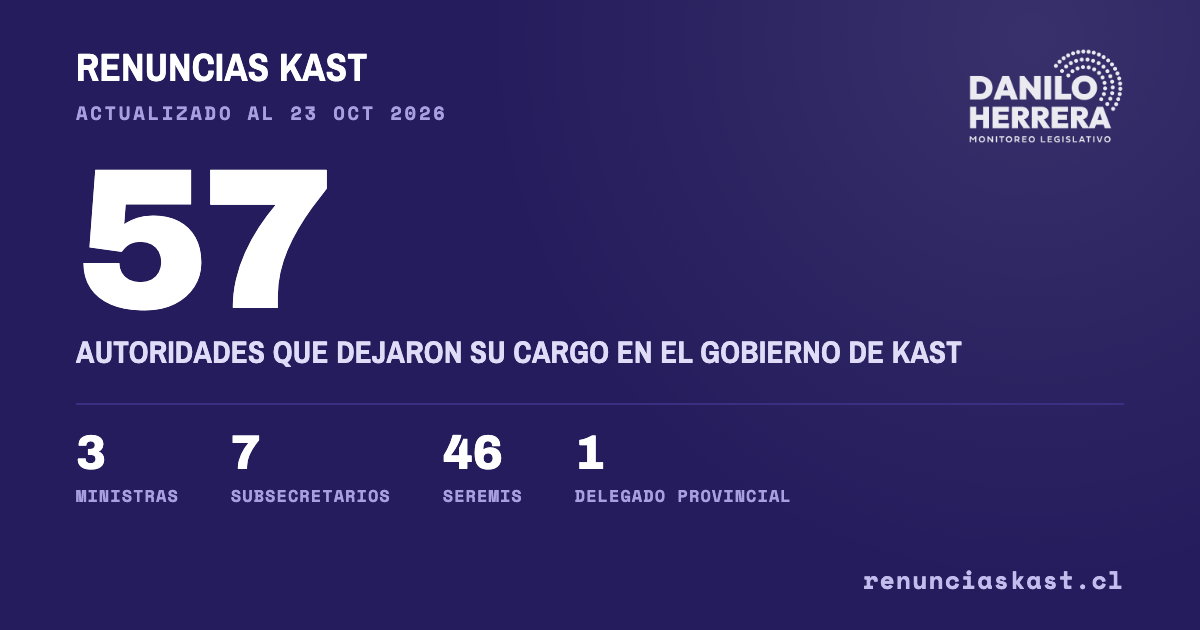
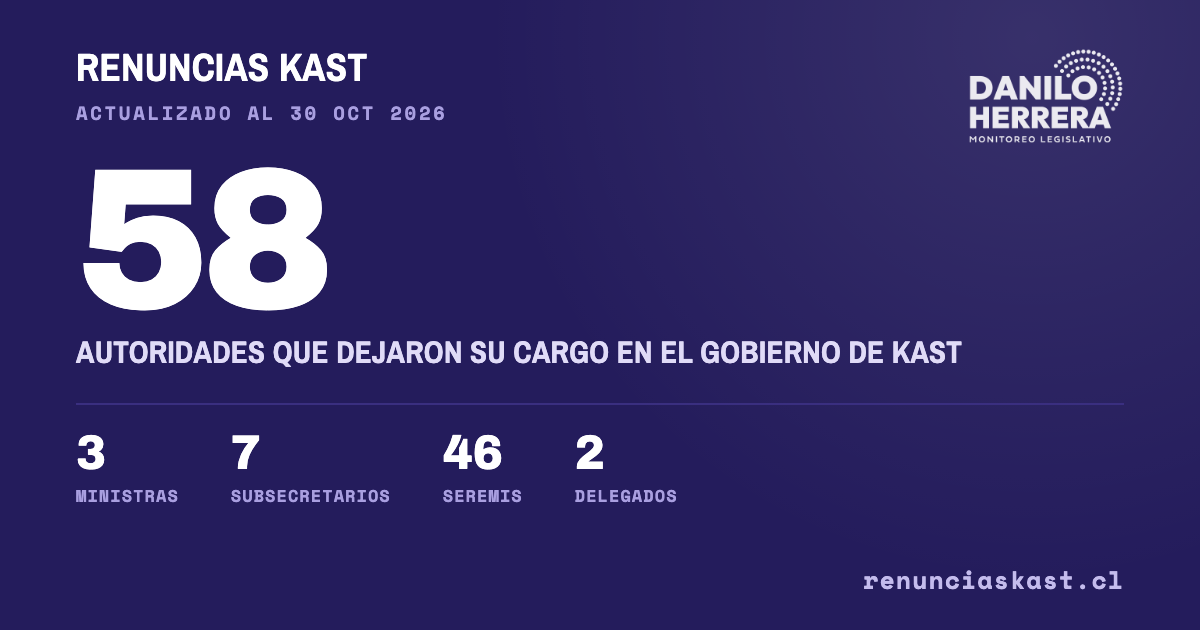
Agrega renuncia del delegado presidencial del Biobío (Julio Anativia) y la categoría Delegado Regional

diff --git a/index.html b/index.html
@@ -193,7 +193,7 @@
     </div>
     <div class="sh-meta">
       <div><b>Fuente</b> Prensa</div>
-      <div><b>Actualización</b> 23 oct 2026</div>
+      <div><b>Actualización</b> 30 oct 2026</div>
     </div>
     <a class="sh-cta" href="https://app.reveniu.com/wp/checkout-custom-link/2O59Bc8JlvEC97c2IlGSEKhlH4GQngRX" target="_blank" rel="noopener">Haz tu aporte</a>
   </div>
@@ -203,14 +203,14 @@
 <header class="hero">
   <div class="wrap">
     <div class="tracker">
-      <div class="meta">Actualizado al 23 de octubre de 2026</div>
-      <div class="big">57</div>
+      <div class="meta">Actualizado al 30 de octubre de 2026</div>
+      <div class="big">58</div>
       <div class="cap">autoridades que dejaron su cargo<br class="mbr"> en el gobierno de José Antonio Kast</div>
       <div class="strip">
         <div><div class="sn">3</div><div class="sl">ministras</div></div>
         <div><div class="sn">7</div><div class="sl">subsecretarios</div></div>
         <div><div class="sn">46</div><div class="sl">seremis</div></div>
-        <div><div class="sn">1</div><div class="sl">delegado provincial</div></div>
+        <div><div class="sn">2</div><div class="sl">delegados</div></div>
         <div><div class="sn" id="avgDias">—</div><div class="sl"><span class="nowrap">días de gobierno</span><br class="mbr"> por salida</div></div>
       </div>
     </div>
@@ -222,7 +222,7 @@
         <div class="ct-cell"><div class="ct-n" id="cMins">00</div><div class="ct-l">min</div></div>
         <div class="ct-cell"><div class="ct-n" id="cSecs">00</div><div class="ct-l">seg</div></div>
       </div>
-      <div class="ct-note"><span class="nowrap">Desde la renuncia del seremi de Bienes Nacionales de Arica y Parinacota,</span><br class="mbr"> 23 de octubre a las 15:08 hrs.</div>
+      <div class="ct-note"><span class="nowrap">Desde la renuncia del delegado presidencial del Biobío,</span><br class="mbr"> 30 de octubre a las 08:30 hrs.</div>
     </div>
     <p class="method">Incluye renuncias, remociones, cambios de puesto y nombramientos que no llegaron a concretarse. Cada caso enlaza a una fuente de prensa.</p>
   </div>
@@ -248,6 +248,7 @@
           <button class="pill" data-dim="tipo" data-val="Subsecretario">Subsecretario</button>
           <button class="pill" data-dim="tipo" data-val="Seremi">Seremi</button>
           <button class="pill" data-dim="tipo" data-val="Delegado Provincial">Delegado Provincial</button>
+          <button class="pill" data-dim="tipo" data-val="Delegado Regional">Delegado Regional</button>
         </div>
       </div>
       <div class="bd-group">
@@ -292,7 +293,8 @@
           <option value="Ministra">Ministras</option>
           <option value="Subsecretario">Subsecretarios</option>
           <option value="Seremi">Seremis</option>
-          <option value="Delegado Provincial">Delegados</option>
+          <option value="Delegado Provincial">Delegados provinciales</option>
+          <option value="Delegado Regional">Delegados regionales</option>
         </select>
         <select id="fReg" aria-label="Filtrar por región"></select>
         <select id="fMin" aria-label="Filtrar por ministerio"></select>
@@ -343,7 +345,7 @@
 
 <script>
 // ===== ÚNICO BLOQUE A EDITAR CUANDO HAYA UNA NUEVA SALIDA =====
-// tipo: "Ministra" | "Subsecretario" | "Seremi" | "Delegado Provincial"
+// tipo: "Ministra" | "Subsecretario" | "Seremi" | "Delegado Provincial" | "Delegado Regional"
 // sk: clave de orden (mes*100+día). Sin fecha = 0 (va al final)
 // jud: true si hay causa/investigación judicial
 const D = [
@@ -360,6 +362,7 @@ const D = [
   {n:"Marcelo Vergara", tipo:"Seremi", terr:"Arica y Parinacota", min:"Hacienda", fecha:"17 jul", sk:717, jud:false, motivo:"Test de drogas", razon:"Renuncia voluntaria, en medio de dudas por su test de drogas. Hacienda confirmó que dio positivo, pero se negó a entregar el informe completo", medio:"El Mostrador", url:"https://www.elmostrador.cl/aqui-arica/2026/09/01/hacienda-confirma-test-positivo-de-drogas-a-exseremi-republicano-pero-no-entrega-resultados/"},
   {n:"José Francisco Lagos", tipo:"Subsecretario", sexo:"m", terr:"Nacional", min:"Segegob", fecha:"21 oct", sk:1021, jud:false, motivo:"No informadas", razon:"El Presidente aceptó su renuncia al nombrar a Gonzalo Arenas como nuevo subsecretario", medio:"La Tercera", url:"https://www.latercera.com/politica/noticia/presidente-kast-designa-a-gonzalo-arenas-como-subsecretario-de-la-secretaria-general-de-gobierno/"},
   {n:"Ronald Ruf", tipo:"Seremi", terr:"Biobío", min:"Hacienda", fecha:"19 oct", sk:1019, jud:false, sexo:"m", motivo:"No informadas", razon:"Renuncia voluntaria por motivos personales. Se hará efectiva el 30 de octubre", medio:"Diario Concepción", url:"https://www.diarioconcepcion.cl/politica/2026/10/19/renuncia-seremi-de-hacienda-biobio.html"},
+  {n:"Julio Anativia", tipo:"Delegado Regional", terr:"Biobío", min:"Interior", fecha:"30 oct", sk:1030, jud:true, sexo:"m", motivo:"Conductas indebidas", razon:"Renuncia en medio de una denuncia por violencia intrafamiliar presentada por su pareja, que él niega", medio:"The Clinic", url:"https://www.theclinic.cl/2026/10/30/delegado-presidencial-del-biobio-presente-su-renuncia-en-medio-de-denuncia-en-su-contra-por-violencia-intrafamiliar/"},
   {n:"Cristian Pradenas", tipo:"Seremi", terr:"Arica y Parinacota", min:"Bienes Nacionales", fecha:"23 oct", sk:1023, jud:false, sexo:"m", motivo:"No informadas", razon:"Renuncia confirmada, sin motivo público detallado", medio:"ADN Radio", url:"https://www.adnradio.cl/2026/10/23/nueva-renuncia-en-el-gobierno-de-kast-seremi-de-bienes-nacionales-de-arica-y-parinacota-deja-su-cargo/"},
   {n:"Rodrigo Aguilera", tipo:"Seremi", terr:"Aysén", min:"Economía", fecha:"18 oct", sk:1018, jud:false, sexo:"m", motivo:"No informadas", razon:"Renuncia voluntaria por motivos personales. Se hará efectiva el 1 de noviembre", medio:"Ministerio de Economía", url:"https://www.economia.gob.cl/2026/10/18/comunicado-de-prensa-3.htm"},
   {n:"David Plaza", tipo:"Seremi", terr:"Araucanía", min:"Obras Públicas", fecha:"6 oct", sk:1006, jud:false, sexo:"m", motivo:"No informadas", razon:"Renuncia pedida por el Gobierno, sin motivo público detallado", medio:"ADN Radio", url:"https://www.adnradio.cl/2026/10/06/nueva-salida-en-el-gobierno-solicitan-la-renuncia-de-david-plaza-seremi-del-mop-de-la-araucania/"},
@@ -407,16 +410,17 @@ const D = [
 ];
 // =============================================================
 
-const tagClass = t => t==="Ministra"?"t-min":t==="Subsecretario"?"t-sub":t==="Delegado Provincial"?"t-del":"t-ser";
+const tagClass = t => t==="Ministra"?"t-min":t==="Subsecretario"?"t-sub":(t==="Delegado Provincial"||t==="Delegado Regional")?"t-del":"t-ser";
 const cargoLabel = d => d.tipo==="Ministra" ? (d.sexo==="m"?"Ministro":"Ministra")
                       : d.tipo==="Subsecretario" ? (d.sexo==="f"?"Subsecretaria":"Subsecretario")
                       : d.tipo==="Delegado Provincial" ? (d.sexo==="f"?"Delegada Provincial":"Delegado Provincial")
+                      : d.tipo==="Delegado Regional" ? (d.sexo==="f"?"Delegada Regional":"Delegado Regional")
                       : "Seremi";
 // Orden de precedencia protocolar de gabinete (Interior primero, Ciencia al final).
 // Se usa solo como desempate entre salidas de una misma fecha; el orden principal sigue siendo cronológico.
 const ORDEN_MIN=["Interior","Relaciones Exteriores","Defensa","Hacienda","Seguridad Pública","Segpres","Segegob","Economía","Desarrollo Social","Educación","Justicia","Trabajo","Obras Públicas","Salud","Vivienda","Agricultura","Minería","Transportes","Bienes Nacionales","Energía","Medio Ambiente","Culturas","Deporte","Mujer","Ciencia"];
 function importancia(d){
-  if(d.tipo==="Delegado Provincial") return -1; // autoridad regional, no forma parte del gabinete: siempre primero en su fecha
+  if(d.tipo==="Delegado Provincial"||d.tipo==="Delegado Regional") return -1; // autoridad regional, no forma parte del gabinete: siempre primero en su fecha
   const i=ORDEN_MIN.indexOf(d.min);
   return i<0?999:i;
 }
@@ -433,7 +437,7 @@ function buildRegions(){
   const prev=fReg.value, tt=fTipo.value;
   fReg.innerHTML='';
   const showNacional=(tt===''||tt==='Ministra'||tt==='Subsecretario');
-  const showRegions=(tt===''||tt==='Seremi'||tt==='Delegado Provincial');
+  const showRegions=(tt===''||tt==='Seremi'||tt==='Delegado Provincial'||tt==='Delegado Regional');
   if(showNacional) fReg.appendChild(new Option("Nacional","Nacional"));
   fReg.appendChild(new Option("Todas las regiones",""));
   if(showRegions) GEO.forEach(r=>fReg.appendChild(new Option(r,r)));
@@ -479,7 +483,7 @@ render();
 // "UN CAMBIO CADA X DÍAS" y "SIN CAMBIOS" — ambos en vivo, recalculados cada segundo contra la hora actual.
 // Actualizar ÚLTIMO_CAMBIO (fecha y hora) cada vez que se agregue una salida nueva a D.
 const INICIO_GOBIERNO=new Date(2026,2,11); // 11 mar 2026, asunción del gobierno
-const ULTIMO_CAMBIO=new Date(2026,9,23,15,8,0); // 23 oct 2026, 15:08 — renuncia seremi de Bienes Nacionales, Arica y Parinacota
+const ULTIMO_CAMBIO=new Date(2026,9,30,8,30,0); // 30 oct 2026, 08:30 — renuncia delegado presidencial del Biobío (Anativia)
 const totalCambios=D.filter(d=>d.sk>0).length;
 function tickCounter(){
   const now=new Date();
